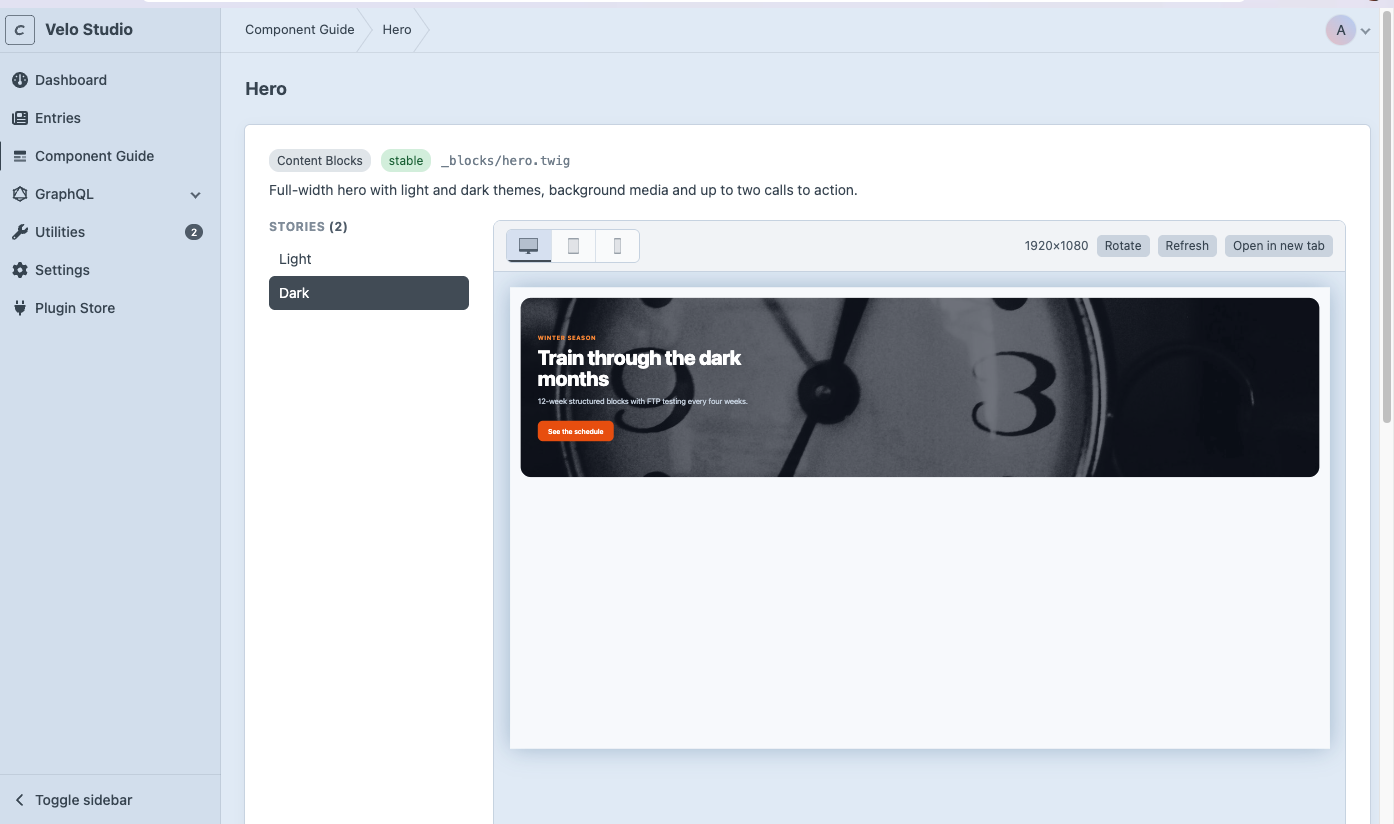
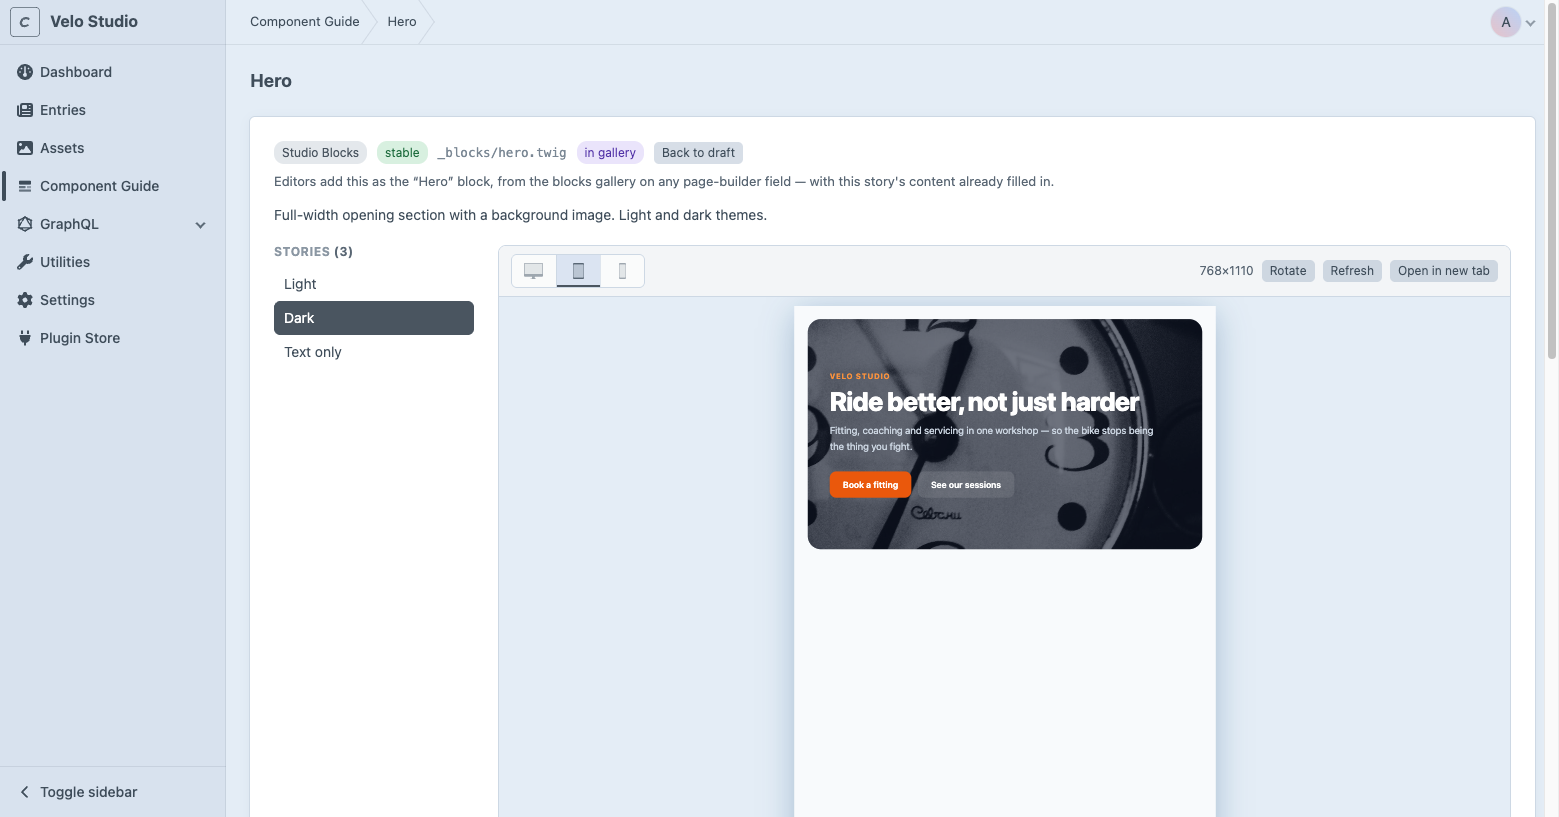
Lead the README with the problem, not the product
The opening described a Storybook-style browser — our framing, and the
one search already finds us by. Queries in the words people actually
use (preview Matrix blocks, component library) returned everyone but us.
It now opens with the editor's problem and names what it is for
developers in the words they search with.

The status line said 1.0.0 and 'free to trial in development and
staging' — two versions and one pricing model out of date. It now states
1.5.0, a free Lite edition on any site, and Pro.

Adds 'When not to use this': the limits, stated before anyone has to
find them.

Screenshots were from 1.0.0 and showed none of the variant switcher,
filters or gallery chips; replaced with current ones, captions updated.

The Packagist description matches the store tagline.

diff --git a/README.md b/README.md
@@ -2,21 +2,23 @@
 
 [![CI](https://github.com/b10k-nl/craft-component-guide/actions/workflows/ci.yml/badge.svg)](https://github.com/b10k-nl/craft-component-guide/actions/workflows/ci.yml)
 
-A Storybook-style component browser inside the Craft CMS 5 control panel — live previews for developers, a visual blocks gallery for editors.
+**Editors cannot tell which Matrix block is which.** They pick “Cards Grid” from a dropdown of names, hope it is the right one, and ask a developer when it is not. Component Guide shows them a rendered preview of every block a page-builder field accepts, inside the Craft control panel, and lets them add the one they picked.
 
-Component Guide scans a configurable templates directory, discovers Twig components and their story definitions, and renders isolated previews inside the Craft control panel — so content editors and developers can see what each component looks like and how to use it, without setting up a separate Storybook/Twig environment.
+For developers it is a **component library for Craft CMS** — a living style guide of every Twig component in the project, rendered with your site's own CSS and discovered from the templates you already have. No separate Storybook, no second environment to keep alive, no screenshots to maintain.
 
-![The component index: groups with descriptions, live preview cards, and story-less components listed as “undocumented”](docs/images/index.png)
+It also catches previews that lie: a story can promise a field the entry type does not have, and the guide says so before an editor meets a card they can never reproduce.
 
-![A component page: stories, viewport switcher and an isolated preview rendered with the site's own CSS](docs/images/component.png)
+![The component index: live preview cards with status and gallery chips, a status filter, and a count of blocks ready for editors](docs/images/index.png)
 
-![The blocks gallery on a page-builder field: real previews and descriptions where editors add blocks](docs/images/picker.png)
+![A component page: three stories with Dark selected, the viewport switcher, and an isolated preview rendered with the site's own CSS](docs/images/component.png)
+
+![The blocks gallery open over an entry in Live Preview: real rendered previews where editors pick the block they add](docs/images/picker.png)
 
 Nothing configured yet? The guide starts by explaining how to get there:
 
 ![The onboarding panel shown before any components are discovered](docs/images/onboarding.png)
 
-> **Status:** `1.0.0` — stable. Sold per site through the Craft Plugin Store; free to trial in development and staging. New to it? [GETTING-STARTED.md](GETTING-STARTED.md) is a five-minute walkthrough.
+> **Status:** `1.5.0` — stable. **Lite is free**, on any site, including production. Pro is $99 per site plus $39/year for updates after the first year, and is free to run in development and staging. New to it? [GETTING-STARTED.md](GETTING-STARTED.md) is a five-minute walkthrough.
 
 ---
 
@@ -52,6 +54,21 @@ Nothing configured yet? The guide starts by explaining how to get there:
   nothing is written behind git's back.
 - Persistent scan cache keyed by a filesystem fingerprint — invalidates itself
   the moment a story, template or marker changes.
+
+## When not to use this
+
+- **Your components query Craft themselves.** A component that runs its own
+  element queries needs a story that passes plain arrays instead; presentational
+  components work as they are.
+- **You have no page-builder field.** The editor half is built around Matrix.
+  Without one the guide is still a component browser, but the half that earns
+  its keep sits idle.
+- **You want screenshots you art-direct.** Previews are re-rendered from the
+  template every time, so they cannot go stale — and cannot be posed either.
+- **Your previews need CSS the guide cannot reach.** They are exactly as
+  accurate as the stylesheet you point them at.
+- **You need a verdict on every component.** The contract check gives none when
+  it cannot identify a single adapter. Refusing beats guessing.
 
 ## Editions
 
